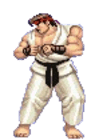
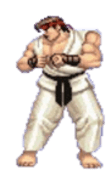
added street fighter background / resized Ryu

diff --git a/src/Player.java b/src/Player.java
@@ -5,7 +5,7 @@ import java.io.File;
 import java.io.IOException;
 
 public class Player {
-    private final double MOVE_AMT = 0.2;
+    private final double MOVE_AMT = 0.5;
     private BufferedImage right;
     private BufferedImage left;
     private BufferedImage punchrightMove;
@@ -19,7 +19,7 @@ public class Player {
     public Player(String leftImg, String rightImg, String punchrightImg, String punchleftImg) {
         facingRight = true;
         xCoord = 50; // starting position is (50, 435), right on top of ground
-        yCoord = 435;
+        yCoord = 350;
         score = 0;
         try {
             left = ImageIO.read(new File(leftImg));
@@ -67,17 +67,17 @@ public class Player {
         }
     }
 
-    public void moveUp() {
-        if (yCoord - MOVE_AMT >= 0) {
-            yCoord -= MOVE_AMT;
-        }
-    }
+//    public void moveUp() {
+//        if (yCoord - MOVE_AMT >= 0) {
+//            yCoord -= MOVE_AMT;
+//        }
+//    }
 
-    public void moveDown() {
-        if (yCoord + MOVE_AMT <= 435) {
-            yCoord += MOVE_AMT;
-        }
-    }
+//    public void moveDown() {
+//        if (yCoord + MOVE_AMT <= 435) {
+//            yCoord += MOVE_AMT;
+//        }
+//    }
 
     public void collectCoin() {
         score++;

diff --git a/src/GraphicsPanel.java b/src/GraphicsPanel.java
@@ -17,7 +17,7 @@ public class GraphicsPanel extends JPanel implements KeyListener, MouseListener 
 
     public GraphicsPanel() {
         try {
-            background = ImageIO.read(new File("src/background.png"));
+            background = ImageIO.read(new File("src/fightbackground.png"));
         } catch (IOException e) {
             System.out.println(e.getMessage());
         }
@@ -82,14 +82,14 @@ public class GraphicsPanel extends JPanel implements KeyListener, MouseListener 
             }
 
             // player moves up (W)
-            if (pressedKeys[87]) {
-                player.moveUp();
-            }
+//            if (pressedKeys[87]) {
+//                player.moveUp();
+//            }
 
             // player moves down (S)
-            if (pressedKeys[83]) {
-                player.moveDown();
-            }
+//            if (pressedKeys[83]) {
+//                player.moveDown();
+//            }
         }
         repaint();
     }
